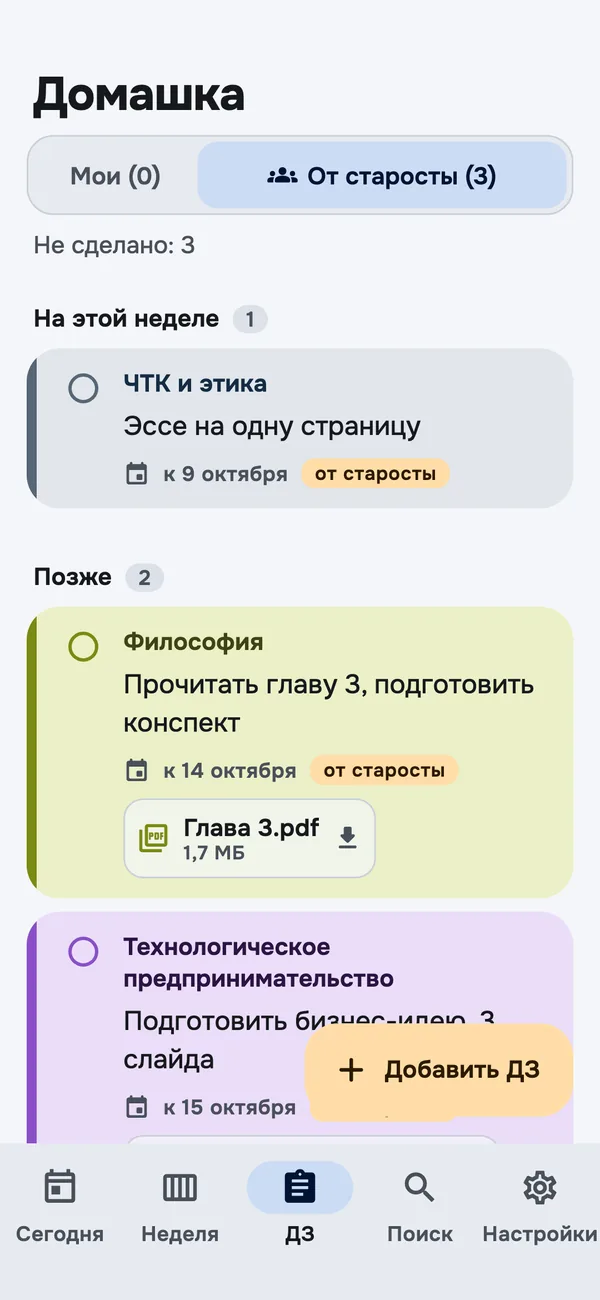
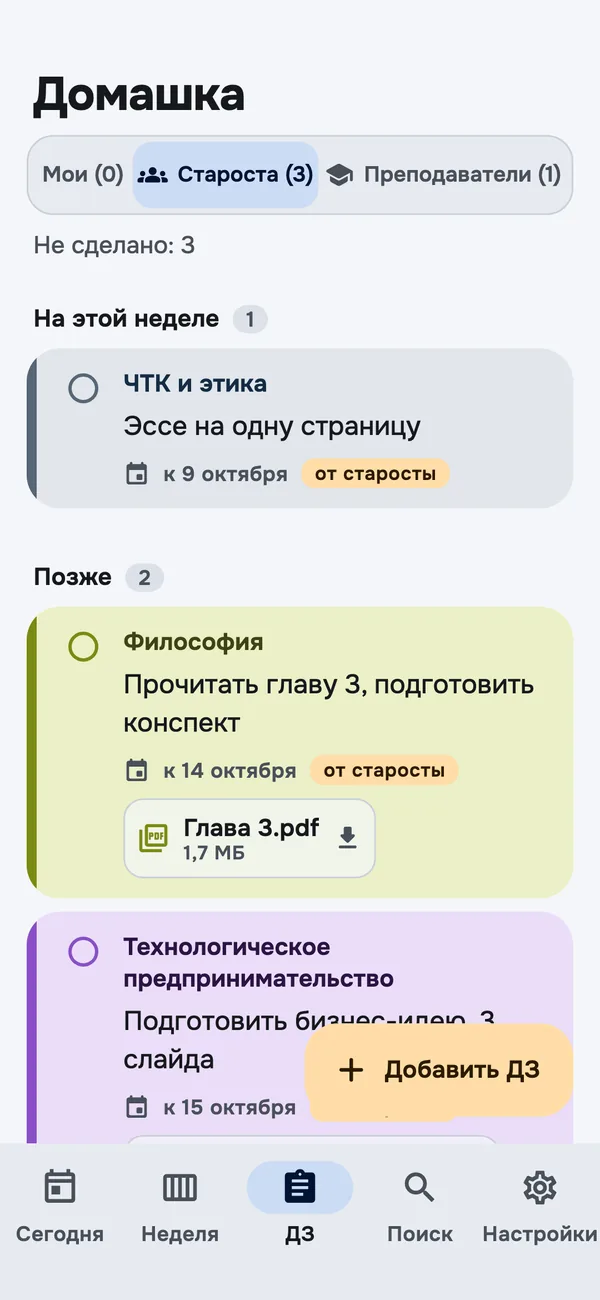
Сайт и веб-версия: честный ответ про данные, ДЗ от преподавателей, автопрокрутка первого запуска, колонка по центру на широких экранах

Changed region(s): [[0.06, 0.0923, 0.96, 0.1846]]

diff --git a/data/web/index.html b/data/web/index.html
@@ -463,8 +463,8 @@
         <figcaption><b>Неделя</b>Обе недели под рукой, у общих лекций видно, с какими группами они идут</figcaption>
       </figure>
       <figure class="shot rv" style="--d:1">
-        <div class="phone"><img loading="lazy" src="img/homework-light.webp" width="600" height="1300" alt="Экран «Домашка»: задания от старосты с прикреплённым файлом"></div>
-        <figcaption><b>Домашка</b>Свои задания и задания от старосты, с файлами и фото</figcaption>
+        <div class="phone"><img loading="lazy" src="img/homework-light.webp" width="600" height="1300" alt="Экран «Домашка»: вкладки «Мои», «Староста» и «Преподаватели», задания с прикреплённым файлом"></div>
+        <figcaption><b>Домашка</b>Свои задания, от старосты и от преподавателей, с файлами и фото</figcaption>
       </figure>
       <figure class="shot rv" style="--d:2">
         <div class="phone"><img loading="lazy" src="img/search-teacher-light.webp" width="600" height="1300" alt="Поиск преподавателя: его пары за день с аудиториями"></div>
@@ -509,7 +509,7 @@
         </div>
       </div>
       <div class="cell amber c-b rv" style="--d:1">
-        <div><h3>Домашка с файлами</h3><p>Свои задания и задания от старосты. Файлы и фото открываются в приложении.</p></div>
+        <div><h3>Домашка с файлами</h3><p>Свои задания, задания от старосты и от преподавателей. Файлы и фото открываются в приложении.</p></div>
         <div class="vis hw" id="hw" aria-hidden="true">
           <div id="hw-1"><span class="box"><svg viewBox="0 0 24 24"><path d="M5 12.5l4.5 4.5L19 7.5"/></svg></span><span class="txt">Прочитать главу 3</span></div>
           <span class="file">Глава 3.pdf · 1,7 МБ</span>
@@ -566,7 +566,7 @@
         <li><div><b>Выберите группу и подгруппу</b><span>Это всё. Дальше расписание откроется сразу, а на главном экране можно добавить виджет. Преподаватели выбирают «Я преподаватель» и находят себя в списке.</span></div></li>
       </ol>
       <div class="callout"><b>Почему телефон предупреждает?</b>Так бывает с любым приложением не из магазина. Приложение бесплатное, подписано автором, а его исходный код открыт: каждую версию можно проверить на GitHub.</div>
-      <div class="callout calm"><b>Как обновить</b>Скачайте новую версию и установите поверх: ваши настройки и домашка сохранятся. Само расписание обновляется без этого, при открытии приложения.</div>
+      <div class="callout calm"><b>Как обновить</b>Скачайте новую версию и установите поверх: ваши настройки и домашка сохранятся. Само расписание обновляется без этого, при открытии приложения. Начиная с версии 0.3.5 приложение само покажет плашку «Вышла новая версия», когда она появится на сайте.</div>
       <p class="note">Нет места или не хочется ставить файл? <a href="app/" data-shared>Откройте версию в браузере</a>: она работает и на Android.</p>
     </div>
 
@@ -660,7 +660,7 @@
     </details>
     <details class="rv" style="--d:1">
       <summary>Какие данные о нас собирает приложение?</summary>
-      <p>Никаких. Нет регистрации и аккаунтов, группа, подгруппа и настройки хранятся только в вашем телефоне. На сервере лежат лишь общие для группы замены и домашка от старосты, без имён и контактов.</p>
+      <p>Ничего личного. Нет регистрации и аккаунтов, группа, подгруппа и настройки хранятся только в вашем телефоне. На сервере лежат лишь общие для группы замены и домашка от старосты и преподавателей, без имён студентов и контактов. Чтобы понимать, сколько человек пользуется приложением, оно раз в сутки отправляет анонимную отметку: случайный номер установки, систему телефона и версию. Ни имени, ни группы, ни расписания в ней нет.</p>
     </details>
     <details class="rv" style="--d:2">
       <summary>Почему не Google Play и не App Store?</summary>

diff --git a/app/lib/features/onboarding/onboarding_screen.dart b/app/lib/features/onboarding/onboarding_screen.dart
@@ -29,6 +29,26 @@ class _OnboardingScreenState extends ConsumerState<OnboardingScreen> {
   int? _subgroup;
   late UserRole _role = ref.read(settingsProvider).role; // кто вы: студент или преподаватель
 
+  // Ключи шагов: после выбора список сам подкручивается, чтобы следующий шаг был виден целиком
+  final _courseKey = GlobalKey();
+  final _groupKey = GlobalKey();
+  final _subgroupKey = GlobalKey();
+  final _peKey = GlobalKey();
+
+  /// Плавно показывает новый шаг (прокрутка минимальная: только если он ниже края экрана).
+  void _reveal(GlobalKey key) {
+    WidgetsBinding.instance.addPostFrameCallback((_) {
+      final target = key.currentContext;
+      if (!mounted || target == null) return;
+      Scrollable.ensureVisible(
+        target,
+        duration: Motion.of(context, const Duration(milliseconds: 350)),
+        curve: Curves.easeOutCubic,
+        alignmentPolicy: ScrollPositionAlignmentPolicy.keepVisibleAtEnd,
+      );
+    });
+  }
+
   Future<void> _finish(PeChoice pe) async {
     await ref.read(settingsProvider.notifier).setProfile(UserProfile(
           formCode: _form!.code,
@@ -117,27 +137,38 @@ class _OnboardingScreenState extends ConsumerState<OnboardingScreen> {
         else ...[
         _Step(
           title: 'Форма обучения',
-          choices: [for (final f in index.forms) _Choice(f.title, selected: f == form, onTap: () => setState(() {
-                _form = f;
-                _course = null;
-                _group = null;
-                _subgroup = null;
-              }))],
+          choices: [
+            for (final f in index.forms)
+              _Choice(f.title, selected: f == form, onTap: () {
+                setState(() {
+                  _form = f;
+                  _course = null;
+                  _group = null;
+                  _subgroup = null;
+                });
+                _reveal(_courseKey);
+              }),
+          ],
         ),
         if (form != null)
           _Step(
+            key: _courseKey,
             title: 'Курс',
             choices: [
               for (final c in ({for (final g in form.groups) g.course}.toList()..sort()))
-                _Choice('$c курс', selected: c == course, onTap: () => setState(() {
-                      _course = c;
-                      _group = null;
-                      _subgroup = null;
-                    })),
+                _Choice('$c курс', selected: c == course, onTap: () {
+                  setState(() {
+                    _course = c;
+                    _group = null;
+                    _subgroup = null;
+                  });
+                  _reveal(_groupKey);
+                }),
             ],
           ),
         if (form != null && course != null)
           _Step(
+            key: _groupKey,
             title: 'Группа',
             choices: [
               for (final g in form.groups.where((g) => g.course == course))
@@ -147,11 +178,13 @@ class _OnboardingScreenState extends ConsumerState<OnboardingScreen> {
                     _subgroup = g.subgroups.length == 1 ? 1 : null;
                   });
                   if (g.subgroups.length == 1) _afterSubgroup(g);
+                  _reveal(g.subgroups.length == 1 ? _peKey : _subgroupKey);
                 }),
             ],
           ),
         if (group != null && group.subgroups.length > 1)
           _Step(
+            key: _subgroupKey,
             title: 'Подгруппа',
             hint: 'Подгруппа 1 — левый столбец группы в таблице расписания.',
             choices: [
@@ -159,11 +192,13 @@ class _OnboardingScreenState extends ConsumerState<OnboardingScreen> {
                 _Choice(s.label, selected: s.n == _subgroup, onTap: () {
                   setState(() => _subgroup = s.n);
                   _afterSubgroup(group);
+                  _reveal(_peKey);
                 }),
             ],
           ),
         if (group != null && group.hasGenderedPe && _subgroup != null)
           _Step(
+            key: _peKey,
             title: 'Физкультура',
             hint: 'У вашей группы физкультура отдельно у юношей и у девушек.',
             choices: [
@@ -184,7 +219,7 @@ class _Choice {
 }
 
 class _Step extends StatelessWidget {
-  const _Step({required this.title, required this.choices, this.hint});
+  const _Step({super.key, required this.title, required this.choices, this.hint});
   final String title;
   final String? hint;
   final List<_Choice> choices;

diff --git a/app/tool/screenshots_test.dart b/app/tool/screenshots_test.dart
@@ -234,7 +234,7 @@ void main() {
     await shoot(tester, 'B-starosta-homework', dark: false, sharedApi: backend.api(), act: () async {
       await tester.tap(find.text('ДЗ').last);
       await tester.pumpAndSettle();
-      await tester.tap(find.textContaining('От старосты'));
+      await tester.tap(find.textContaining('Староста'));
       await tester.pumpAndSettle();
     });
   });
@@ -260,6 +260,12 @@ void main() {
     backend.homework['h2'] = backend.hw(id: 'h2', subject: 'ЧТК и этика', text: 'Эссе на одну страницу', due: '2026-10-09');
     backend.homework['h3'] = backend.hw(id: 'h3', subject: 'Технологическое предпринимательство', text: 'Подготовить бизнес-идею, 3 слайда', due: '2026-10-15',
         files: [{'id': 'f2', 'name': 'Шаблон слайдов.pptx', 'size': 420000}]);
+    // ДЗ от преподавателя: на снимке «Домашки» видны все три вкладки («Мои», «Староста», «Преподаватели»)
+    backend.teacherRows['b1/ofo-1-bi-25'] = {
+      'id': 'b1/ofo-1-bi-25', 'group_id': 'ofo-1-bi-25', 'batch_id': 'b1', 'author': 'Халиев М.С-У.', 'subject': 'Технологическое предпринимательство',
+      'body': 'Подготовить доклад на 5 минут по бизнес-модели', 'due_date': '2026-10-16', 'kind': null, 'subgroup': null,
+      'files': <Map<String, dynamic>>[], 'deleted': false, 'updated_at': '2026-10-09T12:00:00+00:00',
+    };
     return backend;
   }
 
@@ -282,7 +288,7 @@ void main() {
     await shoot(tester, 'homework-light', dark: false, sharedApi: landingBackend().api(), pixelRatio: 3, dir: landingDir, act: () async {
       await tester.tap(find.text('ДЗ').last);
       await tester.pumpAndSettle();
-      await tester.tap(find.textContaining('От старосты'));
+      await tester.tap(find.textContaining('Староста'));
       await tester.pumpAndSettle();
     });
   });
@@ -408,7 +414,7 @@ void main() {
       await shoot(tester, '9-student-teacher-tab', dark: false, sharedApi: sentBackend().api(), dir: teacherDir, act: () async {
         await tester.tap(find.text('ДЗ').last);
         await tester.pump(const Duration(milliseconds: 500));
-        await tester.tap(find.textContaining('От преподавателей'));
+        await tester.tap(find.textContaining('Преподаватели'));
       });
     });
   });

diff --git a/app/test/app_test.dart b/app/test/app_test.dart
@@ -1101,4 +1101,37 @@ void main() {
       expect(find.text('Нужно обновить приложение'), findsNothing);
     });
   });
+
+  group('Удобство на разных экранах', () {
+    testWidgets('первый запуск на небольшом экране: после выбора формы список сам подкручивается к «Курсу»', (tester) async {
+      await _start(tester);
+      tester.view.physicalSize = const Size(390, 700);
+      await tester.pump();
+      await tester.tap(find.text('Очная'));
+      await _settle(tester);
+      // шаг «Курс» целиком в пределах экрана (без прокрутки он был бы ниже края)
+      expect(tester.getRect(find.text('4 курс')).bottom, lessThanOrEqualTo(700));
+      await tester.tap(find.text('2 курс'));
+      await _settle(tester);
+      expect(tester.getRect(find.text('1 БИ-25')).bottom, lessThanOrEqualTo(700));
+    });
+
+    testWidgets('широкий экран (компьютер): приложение встаёт колонкой по центру, а не растягивается на всю ширину', (tester) async {
+      await _start(tester, prefs: profile);
+      tester.view.physicalSize = const Size(1500, 900);
+      await tester.pump();
+      await _settle(tester);
+      final scaffold = tester.getRect(find.byType(Scaffold).first);
+      expect(scaffold.width, 720);
+      expect(scaffold.center.dx, 750); // по центру окна
+    });
+
+    testWidgets('телефон: ширина не ограничивается', (tester) async {
+      await _start(tester, prefs: profile);
+      tester.view.physicalSize = const Size(390, 844);
+      await tester.pump();
+      await _settle(tester);
+      expect(tester.getRect(find.byType(Scaffold).first).width, 390);
+    });
+  });
 }

diff --git a/app/lib/theme/max_width.dart b/app/lib/theme/max_width.dart
@@ -1,0 +1,37 @@
+// На широких экранах (компьютер, планшет) экраны не растягиваются на всю ширину, а встают колонкой по центру:
+// карточки шириной 1300 пикселей читать неудобно. На телефоне ничего не меняется. Всплывающие окна (листы, диалоги)
+// сюда не входят: у них свой предел ширины, а затемнение закрывает весь экран, поэтому нажатие сбоку закрывает окно.
+
+import 'package:flutter/material.dart';
+
+class MaxContentWidth extends StatelessWidget {
+  const MaxContentWidth({super.key, required this.child, this.maxWidth = 720});
+
+  final Widget child;
+  final double maxWidth;
+
+  @override
+  Widget build(BuildContext context) {
+    return ColoredBox(
+      color: Theme.of(context).scaffoldBackgroundColor,
+      child: Center(child: ConstrainedBox(constraints: BoxConstraints(maxWidth: maxWidth), child: child)),
+    );
+  }
+}
+
+/// Оборачивает переход между экранами: каждый экран получает колонку по центру.
+class CenteredColumnTransitions extends PageTransitionsBuilder {
+  const CenteredColumnTransitions(this.inner);
+
+  final PageTransitionsBuilder inner;
+
+  @override
+  Widget buildTransitions<T>(
+    PageRoute<T> route,
+    BuildContext context,
+    Animation<double> animation,
+    Animation<double> secondaryAnimation,
+    Widget child,
+  ) =>
+      inner.buildTransitions(route, context, animation, secondaryAnimation, MaxContentWidth(child: child));
+}

diff --git a/app/lib/theme/app_theme.dart b/app/lib/theme/app_theme.dart
@@ -4,10 +4,12 @@
 
 
 import 'package:dynamic_color/dynamic_color.dart';
+import 'package:flutter/cupertino.dart' show CupertinoPageTransitionsBuilder;
 import 'package:flutter/material.dart';
 import 'package:flutter/services.dart';
 
 import 'brand_colors.dart';
+import 'max_width.dart';
 import 'tokens.dart';
 
 const _family = 'Onest';
@@ -165,8 +167,14 @@ ThemeData buildTheme(ColorScheme scheme) {
       shape: RoundedRectangleBorder(borderRadius: BorderRadius.circular(Radii.md)),
     ),
     progressIndicatorTheme: ProgressIndicatorThemeData(color: scheme.primary, linearTrackColor: scheme.surfaceContainerHighest),
+    // Каждый экран встаёт колонкой по центру, если окно широкое (см. max_width.dart)
     pageTransitionsTheme: const PageTransitionsTheme(builders: {
-      TargetPlatform.android: PredictiveBackPageTransitionsBuilder(),
+      TargetPlatform.android: CenteredColumnTransitions(PredictiveBackPageTransitionsBuilder()),
+      TargetPlatform.iOS: CenteredColumnTransitions(CupertinoPageTransitionsBuilder()),
+      TargetPlatform.macOS: CenteredColumnTransitions(CupertinoPageTransitionsBuilder()),
+      TargetPlatform.fuchsia: CenteredColumnTransitions(ZoomPageTransitionsBuilder()),
+      TargetPlatform.linux: CenteredColumnTransitions(ZoomPageTransitionsBuilder()),
+      TargetPlatform.windows: CenteredColumnTransitions(ZoomPageTransitionsBuilder()),
     }),
   );
 }

diff --git a/app/lib/features/settings/settings_screen.dart b/app/lib/features/settings/settings_screen.dart
@@ -228,7 +228,7 @@ class SettingsScreen extends ConsumerWidget {
             _Row(
               icon: Icons.notifications_off_rounded,
               title: 'Напоминаний в браузере нет',
-              subtitle: 'Браузер iPhone не умеет ставить напоминания. Чтобы получать оповещения о парах, подпишитесь на календарь: ссылка есть на сайте расписания',
+              subtitle: 'Браузер не умеет ставить напоминания о парах. Чтобы получать оповещения, подпишитесь на календарь: ссылка есть на сайте расписания',
             ),
           ])
         else

diff --git a/ХОД_РАБОТ.md b/ХОД_РАБОТ.md
@@ -381,3 +381,11 @@ Kotlin-тесты: `cd app/android && ./gradlew :app:testDebugUnitTest` (14 те
 - В ветку после тега вошла правка подписей вкладок ДЗ: «Мои / Староста / Преподаватели» (вместо «От старосты» / «От преподавателей»), оформление прежнее; выйдет со следующей версией.
 - **Выпущено 0.3.6** (подписи вкладок ДЗ «Мои / Староста / Преподаватели»; тег `v0.3.6`, `apk.json` = 0.3.6). Выпуск шёл дольше обычного: сценарий ждал зелёную проверку для последнего коммита, а для коммитов только с журналом она не запускается (проверка идёт при изменениях в `app/**`); тег поставлен вручную после зелёной проверки коммита с кодом. **Плашка обновления проверена вживую:** на эмуляторе с 0.3.5 после выхода 0.3.6 появилась «Вышла версия 0.3.6 · Скачать · ✕»; «Скачать» открыла браузер (Chrome), ✕ убрала плашку. Тестовые отметки счётчика удалены.
 
+## 2026-10-17: разбор сайта и веб-версии по просьбе владельца
+
+Владелец попросил оценить лендинг и веб-версию; из списка замечаний выбрал и сделал:
+- **Сервер:** удалены тестовые ДЗ (2 мусорных у 1 БИ-25 и проверочное ДЗ «Аккаунтинг и аудит» с двумя файлами у 1 БИ-25 и 2 БИ-25; помечены `deleted`, чтобы исчезло и у тех, кто уже скачал; файлы стёрты). Живых ДЗ и файлов нет.
+- **Лендинг:** ответ про данные теперь честный (анонимная отметка раз в сутки: номер установки, система, версия; ни имени, ни группы, ни расписания); «Домашка» теперь «свои, от старосты и от преподавателей»; в блоке «Как обновить» сказано про плашку с версии 0.3.5; снимок «Домашки» заменён (три вкладки «Мои / Староста / Преподаватели», `homework-light.webp`; сценарий `app/tool/screenshots_test.dart` поправлен и показывает ДЗ преподавателя).
+- **Веб-версия и приложение (код):** первый запуск сам подкручивает список к следующему шагу (минимальная прокрутка, учитывает «убрать анимацию»); на широком экране (компьютер, планшет) экраны встают колонкой шириной до 720 по центру (`lib/theme/max_width.dart`, через переходы между экранами в теме; всплывающие окна не затронуты, нажатие сбоку закрывает их как раньше); в настройках веба текст про напоминания без слова «iPhone». Тесты: 339 проходят (+3: автопрокрутка, колонка, телефон не ограничен; тест на прокрутку проверен «на отказ»). Вживую проверено локальной веб-сборкой.
+- Не сделано по решению владельца: контакт для заявок (п. 3), подпись про смену дня на «Сегодня» (п. 9), вес первой загрузки (п. 11), мелочи. Правки кода попадут на Android со следующей версией (веб и сайт обновляются сразу при публикации).
+
